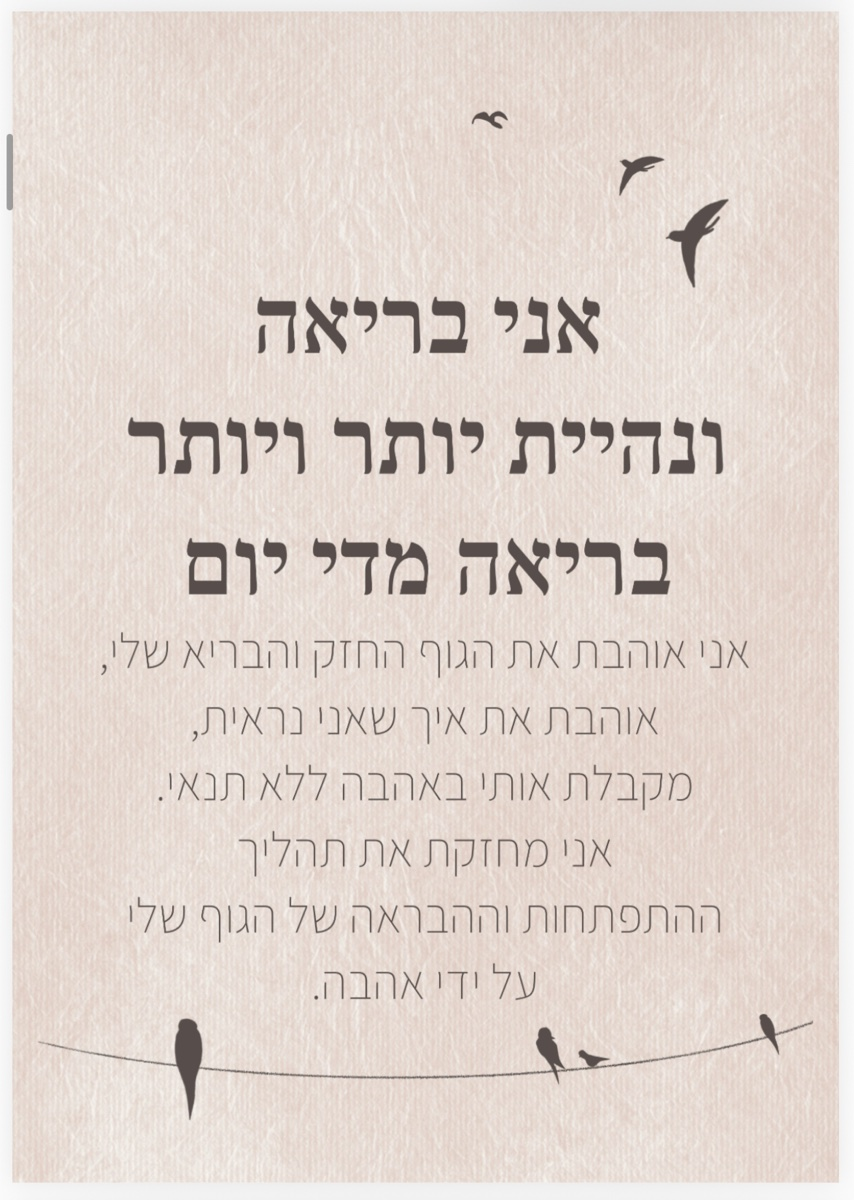
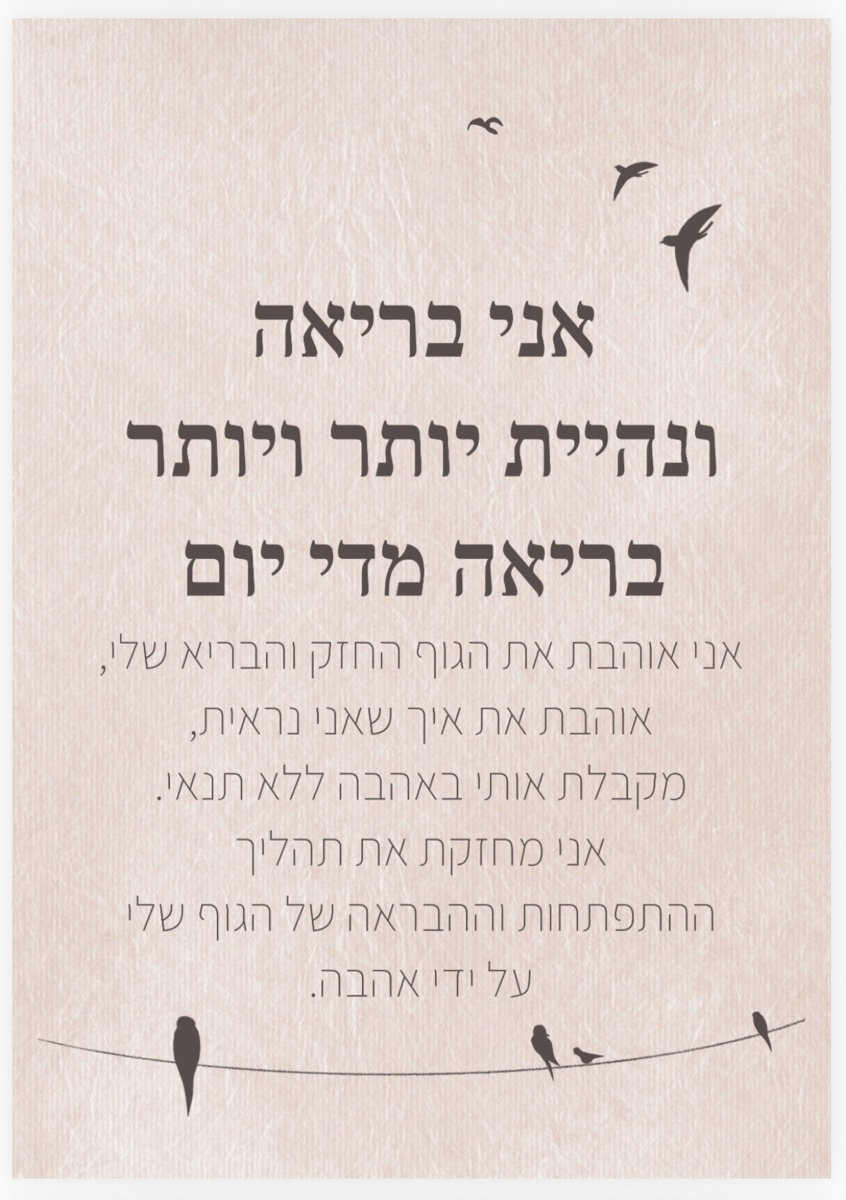
Use better-cropped artwork for the אני בריאה gallery card
The previous source cropped the card tight, cutting the wire and birds
at the bottom edge once the 3:4 gallery frame was applied.

diff --git a/index.html b/index.html
@@ -211,7 +211,7 @@
         <img src="assets/photo-fan.jpg" width="900" height="1600" alt="מניפה של כמה קלפים מהמארז מוחזקת ביד" loading="lazy">
         <img src="assets/photo-livingroom.jpg" width="1600" height="1200" alt="קלף ובו הכיתוב ״אני בדרך הנכונה״ מוחזק בסלון" loading="lazy">
         <img src="assets/photo-livingroom-2.jpg" width="1200" height="1600" alt="קלף ובו הכיתוב ״אני סולחת לעבר באהבה ומשתחררת״" loading="lazy">
-        <img src="assets/art-bria.jpg" width="854" height="1200" alt="עיצוב הקלף ״אני בריאה ונהיית יותר ויותר בריאה מדי יום״" loading="lazy">
+        <img src="assets/art-bria.jpg" width="846" height="1200" alt="עיצוב הקלף ״אני בריאה ונהיית יותר ויותר בריאה מדי יום״" loading="lazy">
       </div>
     </div>
   </section>
